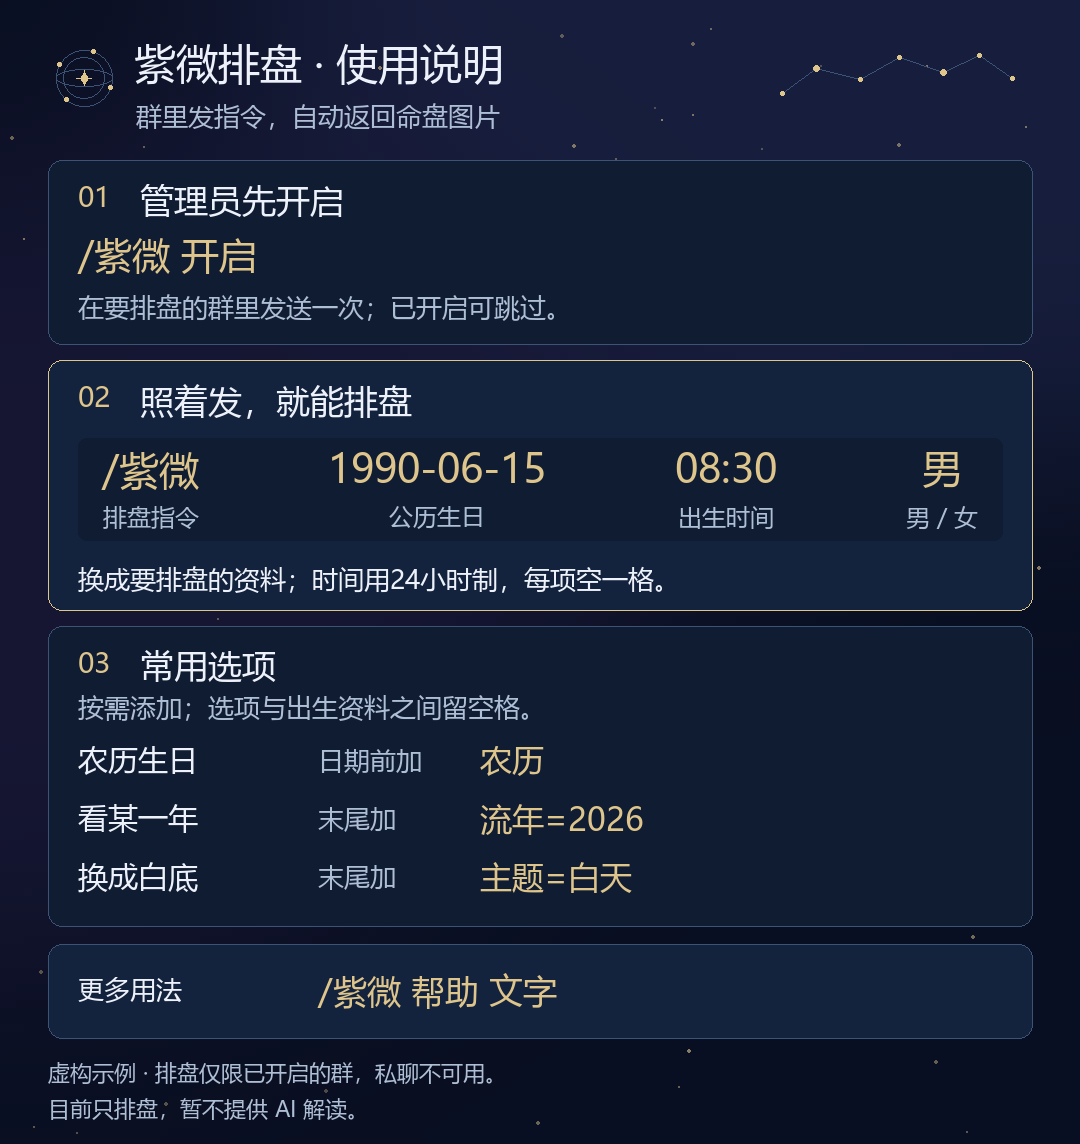
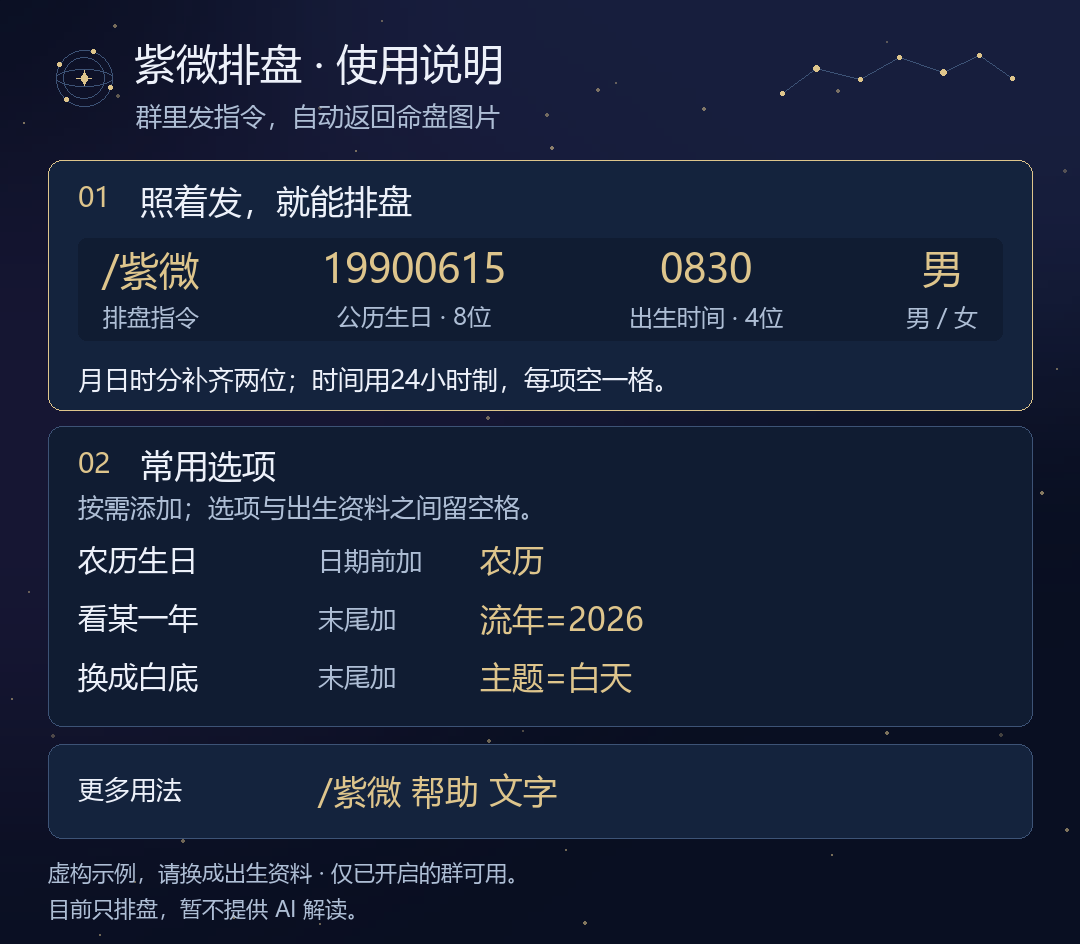
fix: 默认使用纯数字日期并精简排盘说明步骤
默认示例改为 19900615 0830 男，同步文字帮助、错误提示、README 和预览输入。
帮助图移除管理员操作卡，直接展示排盘与常用选项；群管理保留在文字帮助。
保留带分隔符和日期时间连写的解析兼容，版本统一为 2.0.4。

验证：918 项 pytest 通过，Ruff 格式及静态检查、git diff --check 通过。
昼夜帮助图 1080x944、各 29 处文字无碰撞；10 个文档示例均可解析。
新旧格式请求一致，重新生成的六张命盘预览与原图相同。未推送或部署。

diff --git a/help_content.py b/help_content.py
@@ -1,18 +1,17 @@
 """One source of command help for the image and its plain-text fallback."""
 
-DEMO_BIRTH = "1990-06-15 08:30 男"
+DEMO_BIRTH = "19900615 0830 男"
 HELP_INTRO = "群里发指令，自动返回命盘图片"
-HELP_START = (
-    "管理员先开启",
-    "/紫微 开启",
-    "在要排盘的群里发送一次；已开启可跳过。",
-)
 HELP_BIRTH_TITLE = "照着发，就能排盘"
 HELP_BIRTH_FIELDS = (
     ("/紫微", "排盘指令"),
-    *zip(DEMO_BIRTH.split(), ("公历生日", "出生时间", "男 / 女"), strict=True),
+    *zip(
+        DEMO_BIRTH.split(),
+        ("公历生日 · 8位", "出生时间 · 4位", "男 / 女"),
+        strict=True,
+    ),
 )
-HELP_BIRTH_NOTE = "换成要排盘的资料；时间用24小时制，每项空一格。"
+HELP_BIRTH_NOTE = "月日时分补齐两位；时间用24小时制，每项空一格。"
 HELP_OPTIONS = (
     ("农历生日", "日期前加", "农历"),
     ("看某一年", "末尾加", "流年=2026"),
@@ -21,11 +20,10 @@ HELP_OPTIONS = (
 HELP_OPTIONS_NOTE = "按需添加；选项与出生资料之间留空格。"
 HELP_MORE_COMMAND = "/紫微 帮助 文字"
 HELP_IMAGE_NOTES = (
-    "虚构示例 · 排盘仅限已开启的群，私聊不可用。",
+    "虚构示例，请换成出生资料 · 仅已开启的群可用。",
     "目前只排盘，暂不提供 AI 解读。",
 )
 HELP_SECTIONS = (
-    (HELP_START[0], ((HELP_START[1], HELP_START[2]),)),
     (
         HELP_BIRTH_TITLE,
         ((f"/紫微 {DEMO_BIRTH}", HELP_BIRTH_NOTE),),
@@ -43,7 +41,7 @@ HELP_SECTIONS = (
                 "/ziwei 199006150830 男",
                 "支持日期时间连写；也可用 /紫微199006150830男。",
             ),
-            ("/紫微 农历 2023-闰02-16 12:00 女", "农历请加前缀，闰月请标明“闰”。"),
+            ("/紫微 农历 2023闰0216 1200 女", "农历请加前缀，闰月请标明“闰”。"),
         ),
     ),
     (
@@ -77,8 +75,12 @@ HELP_SECTIONS = (
         ),
     ),
     (
-        "群内授权",
+        "群管理",
         (
+            (
+                "/紫微 开启",
+                "由群主、群管理员或 AstrBot 管理员在要排盘的群里发送一次。",
+            ),
             (
                 "/紫微 关闭",
                 "由群主、群管理员或 AstrBot 管理员在本群操作。",
@@ -91,10 +93,11 @@ HELP_NOTES = (
     "以上日期均为虚构演示数据，请替换为需要排盘的出生资料。",
     "当前仅支持指令排盘，暂不提供 AI 看盘、AI 排盘或辅助定盘。",
     "别名：/紫薇、/紫微排盘、/紫薇排盘、/ziwei；均支持开、关、状态。",
-    "支持1900—2100年，时刻可用HH:MM:SS、HHMM、HHMMSS或十二时辰。",
+    "默认示例用 YYYYMMDD HHMM，月日时分均补齐两位，不用横杠和冒号。",
+    "支持1900—2100年；兼容YYYY-MM-DD、HH:MM、HH:MM:SS、HHMMSS和十二时辰。",
     "连写支持YYYYMMDDHHMM／YYYYMMDDHHMMSS；省空格格式有误时静默忽略。",
     "大限=、大运=与运限=同义；运限不与流年、流盘、流时混用。",
-    "日期流盘：出生资料后加 流盘=2026-10-06 流时=10:00。",
+    "日期流盘：出生资料后加 流盘=20261006 流时=1000。",
     "规则选项：闰月=current|next|split，子时=next_day|midnight。",
     "默认闰月十五／十六分界、晚子时换日。命盘按本人平台实例、群、用户归档。",
 )

diff --git a/help_renderer.py b/help_renderer.py
@@ -11,7 +11,6 @@ from .help_content import (
     HELP_MORE_COMMAND,
     HELP_OPTIONS,
     HELP_OPTIONS_NOTE,
-    HELP_START,
 )
 from .modern_renderer import Painter
 from .starfield import constellation, orbit
@@ -23,7 +22,7 @@ class HelpRenderer:
 
     def render(self, theme="night"):
         width, margin = 1080, 48
-        painter = Painter(width, 1144, self.font_path, theme)
+        painter = Painter(width, 944, self.font_path, theme)
         p = painter.palette
         left, content_width = margin + 30, width - margin * 2 - 60
 
@@ -44,14 +43,10 @@ class HelpRenderer:
         painter.text(HELP_INTRO, 136, 103, 26, p.muted)
         constellation(painter.draw, 782, 49, 230, 68, p)
 
-        section("01", HELP_START[0], 160, 184)
-        painter.text(HELP_START[1], left, 238, 38, p.accent)
-        painter.text(HELP_START[2], left, 294, 26, p.muted)
-
-        section("02", HELP_BIRTH_TITLE, 360, 250, featured=True)
+        section("01", HELP_BIRTH_TITLE, 160, 250, featured=True)
         painter.card(
             left,
-            438,
+            238,
             content_width,
             102,
             fill=p.paper,
@@ -74,27 +69,27 @@ class HelpRenderer:
         x = left + 24
         for value, label, field_width in fields:
             for text, size, y, color in (
-                (value, 40, 452, p.accent),
-                (label, 24, 506, p.muted),
+                (value, 40, 252, p.accent),
+                (label, 24, 306, p.muted),
             ):
                 text_width = painter.font(size).getlength(text)
                 painter.text(text, x + (field_width - text_width) / 2, y, size, color)
             x += field_width + gap
-        painter.text(HELP_BIRTH_NOTE, left, 566, 26, p.ink)
+        painter.text(HELP_BIRTH_NOTE, left, 366, 26, p.ink)
 
-        section("03", "常用选项", 626, 300)
-        painter.text(HELP_OPTIONS_NOTE, left, 694, 26, p.muted)
+        section("02", "常用选项", 426, 300)
+        painter.text(HELP_OPTIONS_NOTE, left, 494, 26, p.muted)
         for index, (label, position, option) in enumerate(HELP_OPTIONS):
-            y = 746 + index * 58
+            y = 546 + index * 58
             painter.text(label, left, y, 30, p.ink)
             painter.text(position, left + 240, y + 3, 26, p.muted)
             painter.text(option, left + 402, y, 32, p.accent)
 
-        painter.card(margin, 944, width - margin * 2, 94, fill=p.center)
-        painter.text("更多用法", left, 977, 26, p.ink)
-        painter.text(HELP_MORE_COMMAND, left + 240, 973, 34, p.accent)
+        painter.card(margin, 744, width - margin * 2, 94, fill=p.center)
+        painter.text("更多用法", left, 777, 26, p.ink)
+        painter.text(HELP_MORE_COMMAND, left + 240, 773, 34, p.accent)
         for index, note in enumerate(HELP_IMAGE_NOTES):
-            painter.text(note, margin, 1062 + index * 36, 22, p.muted)
+            painter.text(note, margin, 862 + index * 36, 22, p.muted)
 
         stream = io.BytesIO()
         painter.image.save(stream, format="PNG", optimize=True)

diff --git a/tests/test_project.py b/tests/test_project.py
@@ -14,7 +14,7 @@ ROOT = Path(__file__).resolve().parents[1]
 def test_metadata_and_config_are_loadable_and_consistent():
     meta = yaml.safe_load((ROOT / "metadata.yaml").read_text("utf-8"))
     assert meta["name"] == ROOT.name == "astrbot_plugin_ziwei"
-    assert meta["version"] == "2.0.3"
+    assert meta["version"] == "2.0.4"
     assert meta["repo"] == "https://github.com/RioMaker/astrbot_plugin_ziwei"
     tree = ast.parse((ROOT / "main.py").read_text("utf-8"))
     registration = next(
@@ -30,7 +30,7 @@ def test_metadata_and_config_are_loadable_and_consistent():
     defaults = {k: item["default"] for k, item in schema.items()}
     assert RuleProfile.from_config(defaults).snapshot() == RuleProfile().snapshot()
     assert set(RuleProfile().snapshot()) <= set(schema)
-    assert parse_request("1990-06-15 08:30 男", defaults).output == "image"
+    assert parse_request(DEMO_BIRTH, defaults).output == "image"
     assert DEMO_BIRTH in HELP and "虚构演示数据" in HELP
     assert all(item["description"] and item["type"] for item in schema.values())
 

diff --git a/commands.py b/commands.py
@@ -31,7 +31,7 @@ def parse_date(text: str, lunar=False):
     if not match:
         match = re.fullmatch(r"(\d{4})(\d{2})(\d{2})", clean)
     if not match:
-        raise ValueError("日期格式应为 YYYY-MM-DD 或 YYYYMMDD")
+        raise ValueError("日期请填8位 YYYYMMDD，如 19900615；也支持 YYYY-MM-DD")
     return (*map(int, match.groups()), leap)
 
 
@@ -43,7 +43,9 @@ def parse_clock(text: str):
     if not match:
         match = re.fullmatch(r"(\d{2})(\d{2})(\d{2})?", text)
     if not match:
-        raise ValueError("时刻应为 HH:MM、HH:MM:SS、HHMM、HHMMSS 或十二时辰")
+        raise ValueError(
+            "时间请填4位 HHMM，如 0830；也支持 HHMMSS、HH:MM、HH:MM:SS 或十二时辰"
+        )
     hour, minute, second = (int(match[1]), int(match[2]), int(match[3] or 0))
     if not 0 <= hour <= 23 or not 0 <= minute <= 59 or not 0 <= second <= 59:
         raise ValueError("时刻超出有效范围")

diff --git a/scripts/preview_templates.py b/scripts/preview_templates.py
@@ -21,7 +21,7 @@ def main():
         "preview-flow.png": DEMO_BIRTH + " 流年=2026 主题=白天",
         "preview-night.png": DEMO_BIRTH + " 流年=2026",
         "preview-day.png": DEMO_BIRTH + " 主题=白天",
-        "preview-dense.png": "农历 1993-10-25 20:00 男 真太阳时=关 流年=2026",
+        "preview-dense.png": "农历 19931025 2000 男 真太阳时=关 流年=2026",
     }
     for name, text in examples.items():
         request = parse_request(text)

diff --git a/tests/test_command_only.py b/tests/test_command_only.py
@@ -54,7 +54,7 @@ def test_help_is_available_without_authorization_and_suppresses_model(text, priv
         assert replies == [HELP]
     else:
         with Image.open(io.BytesIO(replies[0][0].data)) as image:
-            assert image.width == 1080 and image.height > 1000
+            assert image.width == 1080 and image.height > 800
             image.verify()
     assert event.call_llm is True and event.stopped
     assert plugin.db == {} and not plugin.chart_cache.entries

diff --git a/main.py b/main.py
@@ -23,7 +23,7 @@ from .renderer import Renderer, text_chart
 from .rules import RuleProfile
 
 
-@register("astrbot_plugin_ziwei", "Rio", "紫微斗数排盘", "2.0.3")
+@register("astrbot_plugin_ziwei", "Rio", "紫微斗数排盘", "2.0.4")
 class ZiweiPlugin(Star):
     def __init__(self, context: Context, config: AstrBotConfig):
         super().__init__(context)

diff --git a/references/IMPLEMENTATION.md b/references/IMPLEMENTATION.md
@@ -4,7 +4,7 @@
 
 ## 分层
 
-2.0.0 将 AstrBot 入口收敛为显式指令：移除 LLM 工具、读盘请求钩子和定盘服务接入，不实例化总结 Worker。历史档案表和离线兼容代码保留，旧 AI 功能说明不代表当前开放。`help_content.py` 是图片与文字帮助的共同来源，`help_renderer.py` 绘制分组帮助；2.0.3 将图片收敛为开启、基础指令、常用选项三块，示例按指令／日期／时间／性别分列标注，主指令为 40 像素常规字重。完整参数和其他指令保留在文字帮助，图片指向 `/紫微 帮助 文字`。`starfield.py` 提供请求独立、固定种子的装饰星空，不是真实天文星位，也不改变计算结果。
+2.0.0 将 AstrBot 入口收敛为显式指令：移除 LLM 工具、读盘请求钩子和定盘服务接入，不实例化总结 Worker。历史档案表和离线兼容代码保留，旧 AI 功能说明不代表当前开放。`help_content.py` 是图片与文字帮助的共同来源，`help_renderer.py` 绘制分组帮助。2.0.4 的帮助图直接展示基础指令和常用选项，管理员操作移至文字帮助。默认示例采用 `YYYYMMDD HHMM 性别`，按指令／8 位日期／4 位时间／性别分列标注，主指令为 40 像素常规字重；原日期解析能力不变，带分隔符和日期时间连写的格式继续兼容。完整参数和其他指令保留在文字帮助，图片指向 `/紫微 帮助 文字`。`starfield.py` 提供请求独立、固定种子的装饰星空，不是真实天文星位，也不改变计算结果。
 
 `calendar_core.py` 验证与归一化日期，保留原输入、钟表时间、计算时间、实际农历和子时后的安星农历。`rules.py` 保存不可变配置并选择表。`engine.py` 实现纯计算，`commands.py` 解析用户参数，`renderer.py` 绘图与格式化，`main.py` 接入 AstrBot 并约束并发。1.6.0 起，命盘由 `archive_store.py` 在插件外保存；渲染图片仍只在内存生成。
 

diff --git a/VERIFICATION.md b/VERIFICATION.md
@@ -1,5 +1,15 @@
 # 本地验证记录
 
+## 2.0.4 纯数字默认示例与直接排盘指南（2026-11-05）
+
+- 默认演示资料统一为 `19900615 0830 男`，帮助图标注 8 位日期和 4 位时间，说明补零、24 小时制与空格。README、文字帮助、日期流盘、闰月示例、错误提示和预览脚本同步采用无横杠、冒号的写法；解析逻辑保持原有兼容能力。
+- 帮助图移除管理员操作卡，直接展示基础排盘与常用选项，尺寸由 1080×1144 缩为 **1080×944**。管理员开启、关闭和状态说明保留在文字帮助末尾，群授权行为不变。
+- 重新生成全部七张模板预览，六张命盘预览与上版逐字节相同；更新 `assets/preview-help.png`。昼夜帮助图各 29 处文字均无越界或重叠，已目视核对；图片中无管理员操作步骤。
+- 真实解析器核对默认纯数字写法、日期时间连写、`2023闰0216 1200` 及 `流盘=20261006 流时=1000`，与对应带分隔符写法的请求完全一致；默认本命盘计算结果相同。README 中 10 个排盘示例均通过解析，原兼容回归保留。
+- 全量 **918 项测试通过**（45.96 秒，无警告），78 个 Python 文件通过 Ruff 格式检查，静态检查和 `git diff --check` 通过。版本信息统一为 2.0.4。
+
+以上为本地渲染、解析和事件替身验证，未进行真实 AstrBot／QQ／OneBot 收发，未推送或部署。
+
 ## 2.0.3 新手帮助图（2026-11-05）
 
 - 帮助图按实际操作顺序展示管理员开启、基础排盘指令和三项常用选项；指令、生日、出生时间与性别逐列标注，说明空格和 24 小时制。主指令由 28 增至 40 像素，沿用原中文字体和常规字重。

diff --git a/AGENTS.md b/AGENTS.md
@@ -2,7 +2,7 @@
 
 单独打开本仓库时，先读取 `../AGENTS.md` 及共享开发基准；独立 worktree 需提供实际基准路径。
 
-当前产品范围（2.0.3，2026-11-05）：仅指令排盘和原有指令版人生图谱，命盘与帮助使用星空模板。帮助图面向首次使用者，只展示开启、基础指令和常用选项，完整参数保留在文字帮助。暂不注册任何 LLM 工具、对话钩子或 AI 辅助定盘入口，也不启动或恢复历史后台总结。保留历史档案和离线兼容模块；下列 AI、额度、定盘和反馈规范只约束保留代码或未来用户明确要求恢复的功能，不能据此自行重新开放 AI。新安装默认夜间星空，升级保留已有显式主题设置。
+当前产品范围（2.0.4，2026-11-05）：仅指令排盘和原有指令版人生图谱，命盘与帮助使用星空模板。默认示例采用不带横杠、冒号的 `YYYYMMDD HHMM 性别`，兼容原有写法。帮助图只展示基础指令和常用选项，管理员操作与完整参数保留在文字帮助。暂不注册任何 LLM 工具、对话钩子或 AI 辅助定盘入口，也不启动或恢复历史后台总结。保留历史档案和离线兼容模块；下列 AI、额度、定盘和反馈规范只约束保留代码或未来用户明确要求恢复的功能，不能据此自行重新开放 AI。新安装默认夜间星空，升级保留已有显式主题设置。
 
 - 插件标识、目录和仓库名称统一为 `astrbot_plugin_ziwei`。
 - `engine.py` 保持纯计算，输入与输出使用一基地支索引；历法、安星、渲染和 AstrBot 适配分层。
